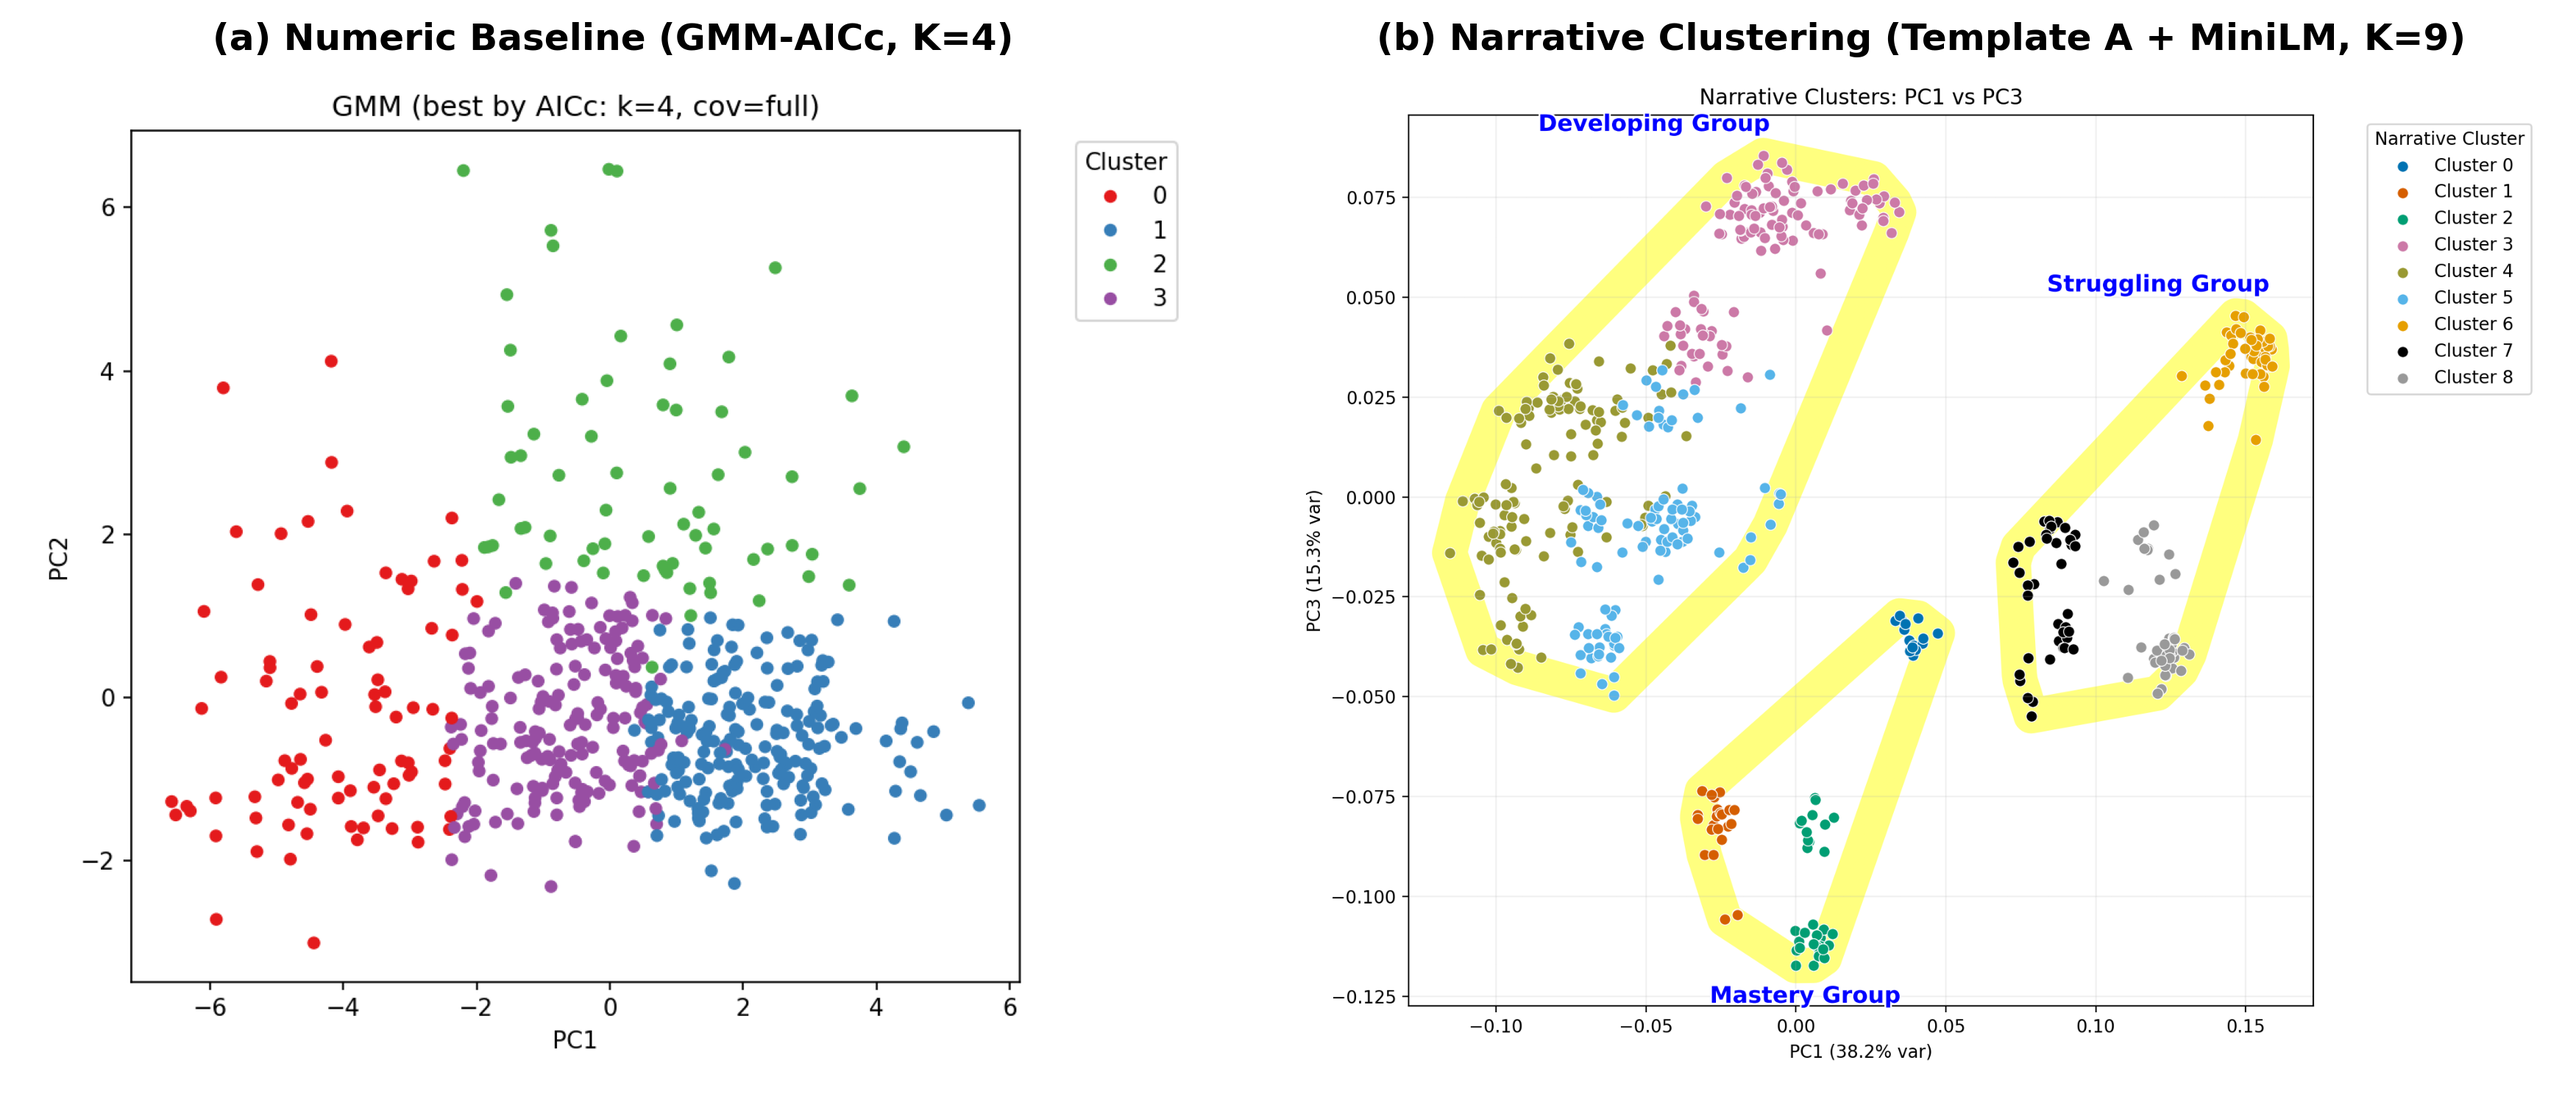
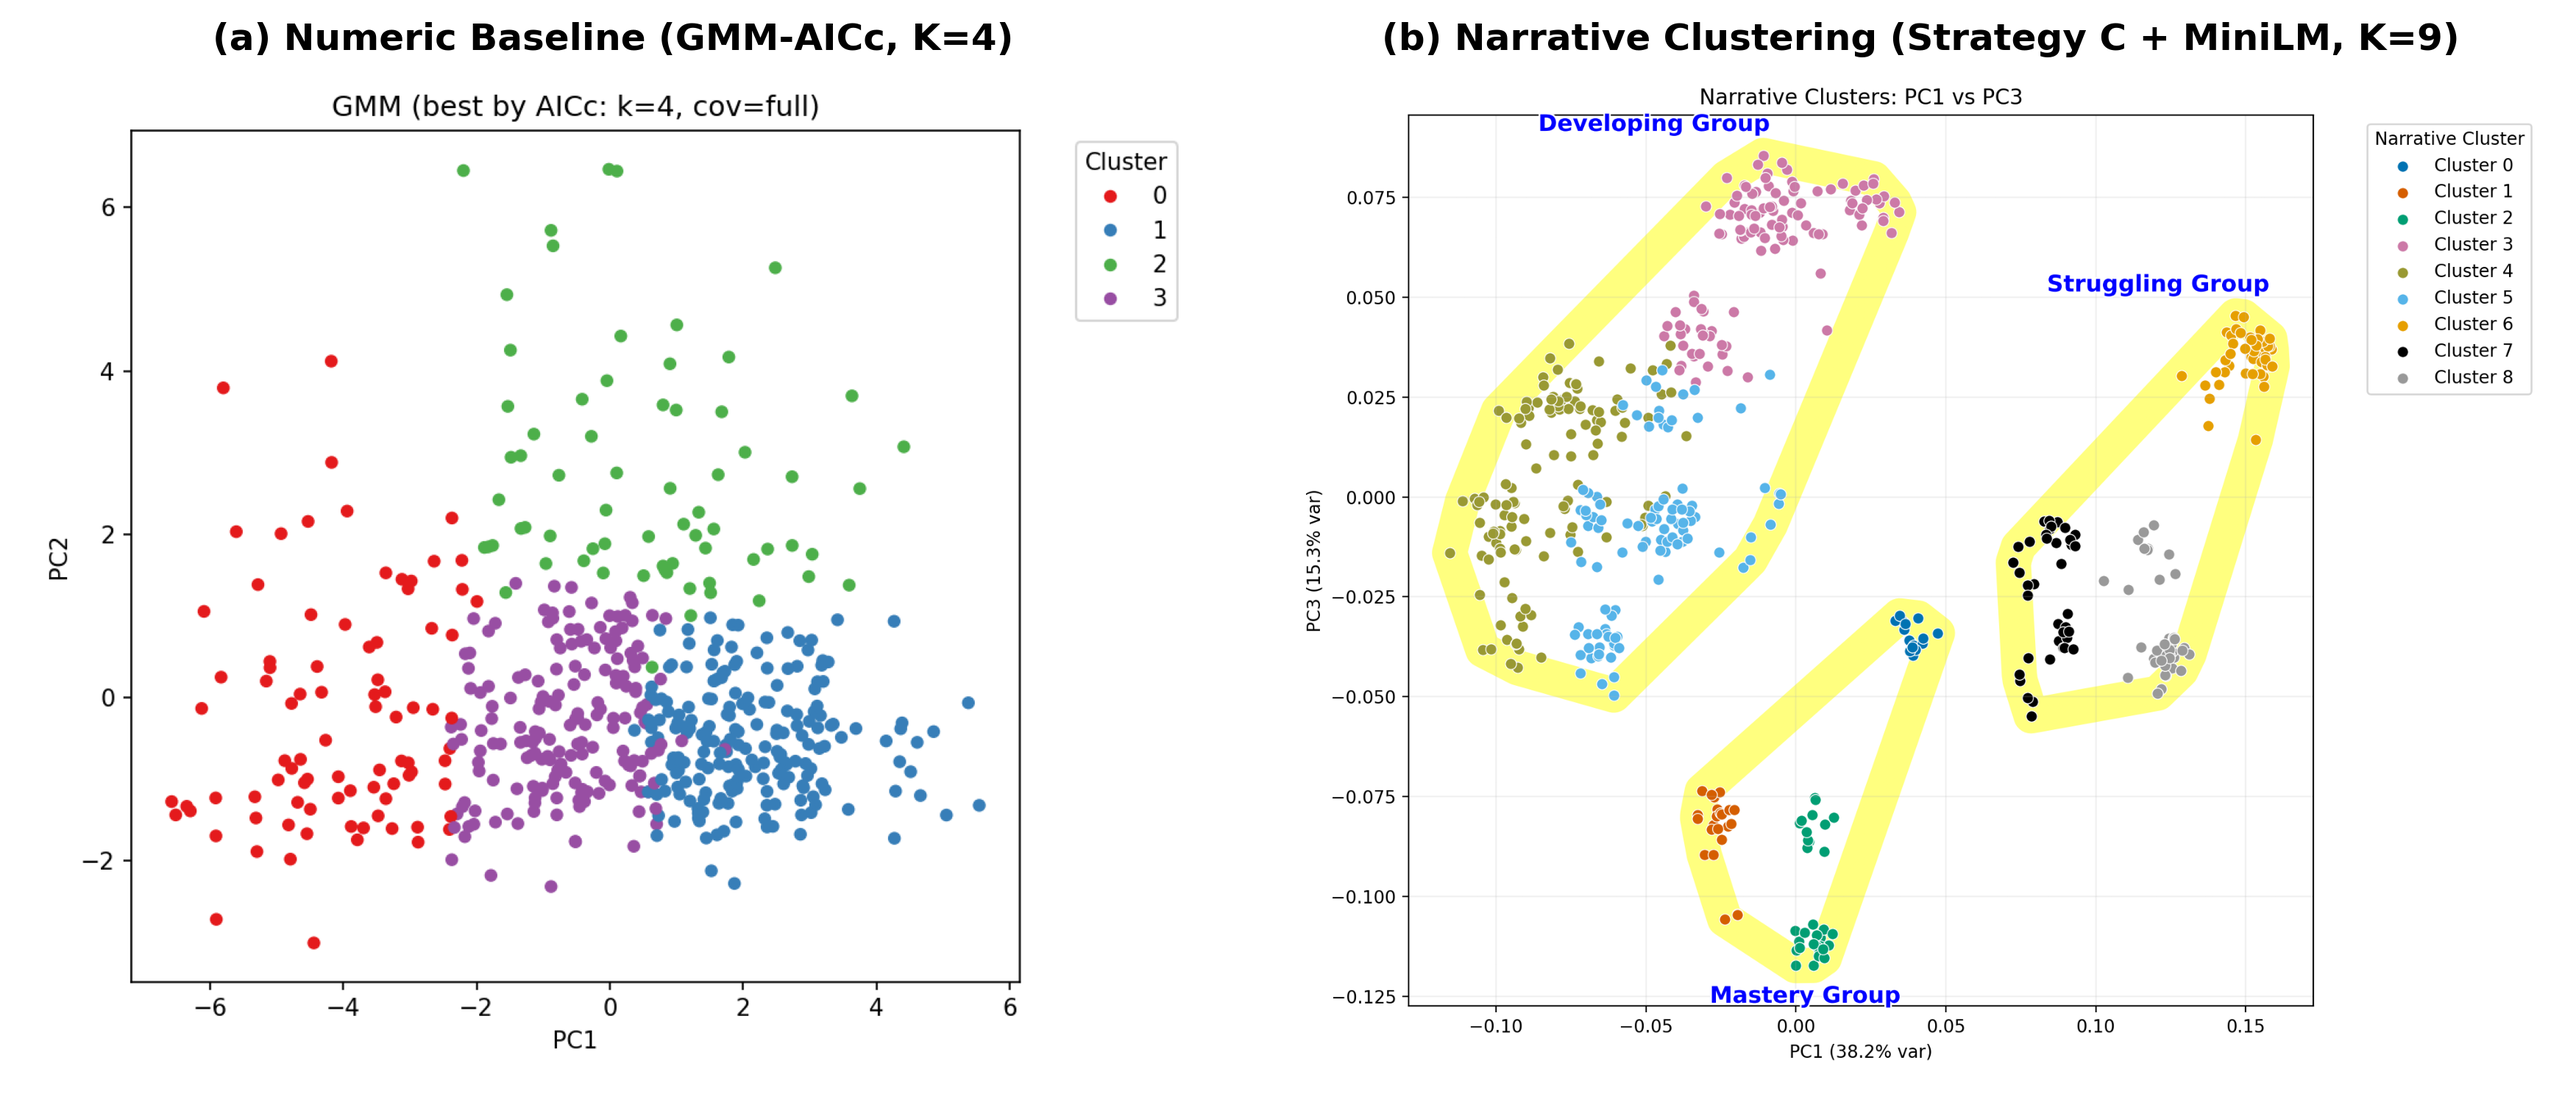
added changes

Changed region(s): [[0.5293, 0.0, 0.9652, 0.0614]]

diff --git a/narrative_embedding_clustering/final result/combine_pca_hull.py b/narrative_embedding_clustering/final result/combine_pca_hull.py
@@ -23,7 +23,7 @@ axs[0].set_title('(a) Numeric Baseline (GMM-AICc, K=4)', fontsize=12, fontweight
 # Plot second image (b)
 axs[1].imshow(img2)
 axs[1].axis('off')
-axs[1].set_title('(b) Narrative Clustering (Template A + MiniLM, K=9)', fontsize=12, fontweight='bold')
+axs[1].set_title('(b) Narrative Clustering (Strategy C + MiniLM, K=9)', fontsize=12, fontweight='bold')
 
 plt.tight_layout()
 plt.savefig(output_path, dpi=300, bbox_inches='tight')
